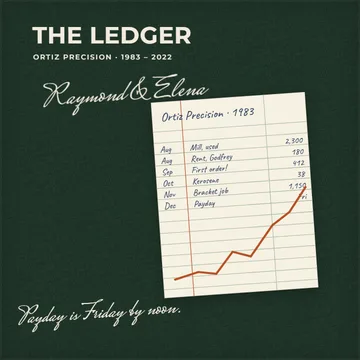
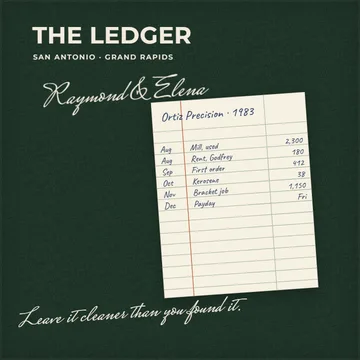
Raymond: a grandfather's book, with photographs
- Two new memories: learning to swim from his son at Grand Haven, and his
  father's one visit north and death. "Four-day weeks" is cut; 2009 stays
  as a one-line answer.
- Four photographs from the site's own synthetic library (03, 08, 30, 32),
  captioned in his voice. The engine now takes a /mission/ path and a ratio.
- Cover: no chart line, "SAN ANTONIO · GRAND RAPIDS", new motto; label
  "A machinist's life".
- Round-2 flags fixed: speech to strangers, repeated term sheet, dateline,
  ledger heading, "First order!", salesman/email/one-more-year answers,
  Maya's closing line. New letter, dedication, epigraph and back cover.

diff --git a/public/samples/books/raymond.js b/public/samples/books/raymond.js
@@ -2,11 +2,11 @@ DATA.raymond = {
   id: "raymond", name: "Raymond", full: "Raymond Ortiz", family: "the Ortiz family",
   pronoun: "he", poss: "his",
   born: "March 9, 1951", place: "San Antonio, Texas",
-  cover: { title: "THE LEDGER", date: "ORTIZ PRECISION · 1983 – 2022", names: "Raymond & Elena", motto: "Payday is Friday by noon." },
+  cover: { title: "THE LEDGER", date: "SAN ANTONIO · GRAND RAPIDS", names: "Raymond & Elena", motto: "Leave it cleaner than you found it." },
   title: "The Ledger",
   subtitle: "The life of Raymond Ortiz",
-  dedication: { text: "For Elena, who kept the books and kept me. And for the hundred and forty.", sig: "Ray" },
-  epigraph: { text: "I didn’t leave it on the table. I left it in a hundred and forty houses.", from: "m11" },
+  dedication: { text: "For Elena, who kept the books and kept me. For Marisol and Tomás, who got less of me than the shop did. And for Maya, who asked.", sig: "Ray" },
+  epigraph: { text: "A tool that’s a little wrong and the knowledge of which way.", from: "m1" },
 
   chapters: [
     { era: "Where we come from", memories: [
@@ -24,7 +24,7 @@ DATA.raymond = {
             "The caliper is on my desk. It reads a thousandth heavy. I’ve known that since 1962 and I’ve never had it fixed, because then I’d have to learn it over again. When I measure something that matters, I use it anyway, and I take the thousandth off in my head. That’s what he left me. A tool that’s a little wrong and the knowledge of which way."
           ]
         ],
-        kept: "A tool that’s a little wrong and the knowledge of which way."
+        kept: "this one measures. The rest of the tools in here guess."
       }
     ]},
 
@@ -56,11 +56,12 @@ DATA.raymond = {
             "I went back every Friday for eleven weeks. I never needed to. You could mail a deposit. She knew that and I knew that and neither of us brought it up."
           ],
           [
-            "The twelfth Friday she handed my receipt back with something written on it. Her mother’s phone number, and the words Sunday, two o’clock, bring nothing. Her mother was from Saltillo and did not trust a man who showed up with flowers. I showed up with nothing and ate three plates.",
-            "We were married in August 1975 at her mother’s parish on the west side. Forty-one people. Her father walked her down the aisle and told me at the reception, in Spanish, that she had never once been wrong about money, and I’d do well to remember it. I thought it was a toast. It was instructions.",
-            "Marisol came in 1977 and Tomás in 1980. Elena kept working the window until Marisol was born, and then she kept the books for a dry cleaner and a plumber from the kitchen table, for cash, so she could stay home. I didn’t think anything of it. A plumber’s books. I didn’t know I was watching the best bookkeeper in Kent County learn her trade on somebody else’s dime."
+            "The twelfth Friday she handed my receipt back with something written on it. Her mother’s phone number, and the words Sunday, two o’clock, bring nothing. Her mother did not trust a man who showed up with flowers. I showed up with nothing and ate three plates.",
+            "We were married in August 1975 at her mother’s parish. Her father told me at the reception, in Spanish, that she had never once been wrong about money, and I’d do well to remember it. I thought it was a toast. It was instructions.",
+            "Marisol came in 1977 and Tomás in 1980. Elena kept the books for a dry cleaner and a plumber from the kitchen table, for cash, so she could stay home. I didn’t know I was watching the best bookkeeper in Kent County learn her trade."
           ]
-        ]
+        ],
+        photos: [ { img: "/mission/03-1200.webp", ratio: 1.5, pos: "50% 55%", caption: "Burton Street, 1979. Marisol in the doorway, supervising. Everything we owned fit in that wagon.", face: 1 } ]
       },
       { id: "m4", title: "Elena’s ledger", dateline: "1983 – 2004 · aged 32 to 53", askedBy: "Maya",
         headnote: "At the kitchen table where the ledgers were kept, the first one open between them.",
@@ -82,9 +83,30 @@ DATA.raymond = {
             by: "Marisol Ortiz, his daughter" }
         ],
         voice: { rec: "Oct 2, 2025", len: "0:58", quote: "Your grandmother was the most important person in that company, and nobody knew it." },
-        plate: { kind: "ledger", title: "Ortiz Precision · 1983",
+        plate: { kind: "ledger", heading: "Ortiz Precision · 1983",
           rows: [["Aug","Mill, used","2,300"],["Aug","Rent, Godfrey","180"],["Sep","First order","412"],["Oct","Kerosene","38"],["Nov","Bracket job","1,150"],["Dec","Payday","Fri"]],
           caption: "The first page of Elena’s first ledger. She kept twenty-one of them." }
+      },
+      { id: "m13", title: "Grand Haven, the first week of August", dateline: "August 1987 · aged 36", askedBy: "Maya",
+        headnote: "On the porch on a hot evening, Elena in the next chair correcting the years.",
+        faces: [
+          [
+            "Elena made one rule when we started the shop. The first week of August, the doors close, everybody paid, nobody in the building. Especially me. So every August we rented the same cottage at Grand Haven."
+          ],
+          [
+            "I couldn’t swim. Where I grew up the pool on our side of town was closed more than it was open, and then I was working. I’d stand in the lake up to my knees and call it swimming.",
+            "Then Tomás learned at the Y. He was seven. He walked out to where I was standing and said, Dad, put your face in. It’s just water. I said I knew it was just water. He said, then put your face in.",
+            "It took three Augusts. He never laughed and he counted out loud. That’s how I taught him the lathe ten years later.",
+            "I can swim the length of a dock now. Elena says that’s plenty."
+          ]
+        ],
+        kept: "Dad, put your face in. It’s just water.",
+        photos: [ { img: "/mission/30-1200.webp", ratio: 1.5, pos: "50% 50%", caption: "Grand Haven, 1987. Tomás is teaching me. Elena is keeping score.", face: 0 } ],
+        sides: [
+          { heading: "Marisol remembers it differently",
+            body: "He says three Augusts. It was four. The last one he swam in front of Mom on purpose. She clapped from her chair like it was the Olympics. He walked very slowly to his towel.",
+            by: "Marisol Ortiz, his daughter" }
+        ]
       },
     ]},
 
@@ -98,8 +120,7 @@ DATA.raymond = {
           ],
           [
             "That first winter I worked in my coat. The only heat was a kerosene heater and the machine. The mill was the only thing in there making money, so it got the heat first. I’d stand close to it between cuts.",
-            "I was scared every Friday. But I was more scared of being sixty and still complaining about it.",
-            "I wasn’t sure. Nobody’s sure. I was angry, and angry lasts longer than sure. But I knew I could make the part right and make it on time, and in 1983 in this town that was enough to start on.",
+            "Elena came at noon with lunch in a coffee can and sat on an upturned bucket while I ate. She brought the ledger. She always brought the ledger. Marisol drew on the floor in chalk, and Tomás slept in a parts box lined with a moving blanket.",
             "The first order was $412. Twelve brackets for a chair company. I still have the first one, in a frame, and how it got there is a story for later."
           ]
         ],
@@ -116,7 +137,7 @@ DATA.raymond = {
           ]
         ]
       },
-      { id: "m8", title: "The customer who was sixty percent", dateline: "1986 – 1991 · aged 35 to 40", askedBy: "Maya",
+      { id: "m8", title: "The customer who was sixty percent", dateline: "1986 – 1991 · aged 35 to 39", askedBy: "Maya",
         headnote: "In the truck on the way back from Tomás’s shop, on a Thursday afternoon in November.",
         faces: [
           [
@@ -125,16 +146,36 @@ DATA.raymond = {
             "It felt like winning. It was a trap with a nice paint job."
           ],
           [
-            "In January 1991 their purchasing manager called to say volumes were being cut in half, effective immediately. No warning. No appeal. He was sorry, and he was reading it off a sheet. I put the phone down and went out on the floor and ran a part myself. I didn’t trust myself to talk to anybody. I had built a company and handed someone else the keys without noticing.",
-            "To anybody who just landed a customer that big: congratulations. Now go get three more. Every month one customer is more than a quarter of you, you’re working for them, not with them. After ’91 we turned down work to keep that rule. Good work, sometimes. Tomás runs his own shop by it now. He calls it Dad’s quarter. It’s the reason we were still standing in 2009."
+            "In January 1991 their purchasing manager called to say volumes were being cut in half, effective immediately. No warning. No appeal. He was sorry, and he was reading it off a sheet. I put the phone down and went out on the floor and ran a part myself. I didn’t trust myself to talk to anybody.",
+            "After that Elena drew a line in pencil across the front page of every ledger. One customer, no more than a quarter of us. We turned down work to stay under that line, good work, more than once. Tomás runs his own shop by it now. He calls it Dad’s quarter. It should be called Mom’s."
           ]
         ],
         kept: "It felt like winning. It was a trap with a nice paint job.",
+        photos: [ { img: "/mission/32-1200.webp", ratio: 1.5, pos: "50% 50%", caption: "Clay Avenue, 1988. Our first real building. Hector’s wagon, out front before anybody.", face: 0 } ],
         voice: { rec: "Oct 19, 2025", len: "0:36", quote: "The most expensive mistake I ever made came in on a Tuesday in 1986, and it looked like the best day of my life." }
       }
     ]},
 
     { era: "When everything changed", memories: [
+      { id: "m14", title: "My father comes north", dateline: "June 1985 – March 1987 · aged 34 to 36", askedBy: "Maya",
+        headnote: "At the kitchen table late in the afternoon, the caliper case open; he closes it before the last part.",
+        faces: [
+          [
+            "My father came north once. June 1985, on the Greyhound, because he didn’t trust airplanes or my driving.",
+            "I wanted him to see the garage on Godfrey Avenue, the mill, the work on the board, the sign. He walked around it a long time and didn’t say anything."
+          ],
+          [
+            "Then he found Elena’s mother’s fan, broken on my bench since Easter, and fixed it. He couldn’t be in a room with tools and not work. When he was done he wiped the bench where his arm had been.",
+            "Outside he looked at the sign. Ortiz Precision. He said, no first name. Good. That was the whole review.",
+            "He died in March 1987. Elena took the call on the hall phone. I drove to San Antonio in twenty-two hours.",
+            "I didn’t cry at the funeral. I cried on the way home, at a gas station in Texarkana, wiping down a pump handle somebody had left greasy.",
+            "He only came north once. I spent it showing him the mill. I should have shown him the kids."
+          ]
+        ],
+        kept: "no first name. Good.",
+        photos: [ { img: "/mission/08-1200.webp", ratio: 1.5, pos: "40% 50%", caption: "My father at my bench, Godfrey Avenue, June 1985. Elena’s mother’s fan. He wouldn’t sit down.", face: 0 } ],
+        voice: { rec: "Dec 4, 2025", len: "1:19", quote: "My father came north once." }
+      },
       { id: "m9", title: "The Friday I couldn’t make payroll", dateline: "February 8, 1991 · aged 39",
         headnote: "Alone in the shop after second shift; he stops for a long while before the part about the pallet.",
         faces: [
@@ -152,22 +193,6 @@ DATA.raymond = {
         ],
         kept: "So we didn’t pay us. Four months.",
         voice: { rec: "Oct 9, 2025", len: "1:12", quote: "It was February 8, 1991, a Friday, two weeks after the call from the lakeshore." }
-      },
-      { id: "m10", title: "Four-day weeks", dateline: "Spring 2009 · aged 58", askedBy: "Maya",
-        headnote: "In the shop’s break room on a Friday, which used to be the training day; the coffee is bad.",
-        faces: [
-          [
-            "The decision I’m proudest of is 2009, and it wasn’t a hard one. People think it was.",
-            "By March orders had fallen off a cliff. Forty-one percent down from the year before, and we had sixty-two people. The banker came out to the shop, which he’d never done, and said what every banker said that year. Lay off a third of the floor and wait it out. He had a number. Twenty-one.",
-            "I went home and asked Elena to run the numbers the other way. Not who do we cut. What does it cost to keep everybody. She had it by Sunday night."
-          ],
-          [
-            "Everybody went to four days a week. Me included, and my salary went to zero for twelve months. The fifth day became training. We put the whole floor through the new controls on Fridays, on the clock, because the machines were sitting idle anyway and so were the people. Nobody lost a job. Not one.",
-            "Everyone else laid people off. The people you lay off in a bad year are the people you need to rebuild in the good one. And I’d stood on that pallet in ’91. You can’t ask people to trust you and then let them find out on a Friday. The cuts start in my office. It’s on the wall in the shop now.",
-            "When the orders came back in 2010, we had the only full, trained crew in our corner of Kent County. The banker called to say congratulations. I let it ring."
-          ]
-        ],
-        voice: { rec: "Nov 6, 2025", len: "0:47", quote: "The decision I’m proudest of is 2009, and it wasn’t a hard one." }
       }
     ]},
 
@@ -199,7 +224,7 @@ DATA.raymond = {
         headnote: "In the front office, the framed bracket on the wall behind him; the second shift is clocking in.",
         faces: [
           [
-            "The private equity offer was the better deal on paper. I’m not going to pretend otherwise. I kept the term sheet in my desk drawer for three months and took it out most nights.",
+            "The private equity offer was the better deal on paper. I’m not going to pretend otherwise.",
             "In the end I took about a fifth less and sold the company to the people who worked there. An employee stock ownership plan. A piece of it for every one of them. The better part of three years and four lawyers to build, and I understood maybe half of what the lawyers said, and Marisol understood the other half and translated. A hundred and forty people. Every one of them in Grand Rapids. Every one of them still here.",
             "People ask if I left money on the table. I didn’t leave it on the table. I left it in a hundred and forty houses."
           ],
@@ -241,24 +266,21 @@ DATA.raymond = {
 
   learned: [
     { theme: "Work", quotes: [ { text: "Somebody shows you where your hand is wrong and you don’t make them show you twice.", from: "m2" } ] },
-    { theme: "Money", quotes: [ { text: "Every month one customer is more than a quarter of you, you’re working for them, not with them.", from: "m8" } ] },
-    { theme: "Hard choices", quotes: [
-      { text: "People can take bad news. What they can’t take is finding out last.", from: "m9" },
-      { text: "The people you lay off in a bad year are the people you need to rebuild in the good one.", from: "m10" }
-    ] },
+    { theme: "Loss", quotes: [ { text: "I spent it showing him the mill. I should have shown him the kids.", from: "m14" } ] },
+    { theme: "Hard choices", quotes: [ { text: "People can take bad news. What they can’t take is finding out last.", from: "m9" } ] },
     { theme: "What matters", quotes: [ { text: "If someone does the work of a partner, put their name on it the first day.", from: "m4" } ] }
   ],
 
   little: [
     { q: "Best money you ever spent?", a: "$2,300 on a used Bridgeport mill. It still runs." },
-    { q: "Worst hire you ever made?", a: "Me, as a salesman. I lasted four months." },
+    { q: "First thing you do every morning?", a: "Coffee for Elena, then mine. Fifty years." },
+    { q: "What do you and Elena argue about?", a: "The thermostat. Fifty years. She’s winning." },
+    { q: "What were you like as a father?", a: "Gone too much and home for dinner. Both are true. Ask Marisol." },
     { q: "What do you look for in a person?", a: "Whether they clean their station without being told." },
-    { q: "First thing you do every morning?", a: "Walk the floor before I open my email. Forty years." },
     { q: "Favorite tool?", a: "My father’s six-inch dial caliper. It’s off by a thousandth. I know which way." },
-    { q: "What did your father teach you?", a: "Leave the engine cleaner than you found it." },
-    { q: "One more year at thirty-two. What would you do?", a: "Pay Elena." },
-    { q: "Something you changed your mind about?", a: "Debt. I hated it. Good debt bought our second building." },
-    { q: "Hardest thing about being the boss?", a: "Eating lunch alone." },
+    { q: "What do you miss about San Antonio?", a: "My mother asking if I was cold. Breakfast. In that order." },
+    { q: "Something you never learned?", a: "Dancing. Elena stopped asking in 1979." },
+    { q: "Proudest decision?", a: "2009. Orders fell forty percent and nobody lost a job. Not one." },
     { q: "Advice for your 1983 self?", a: "Get a second customer before you need one." },
     { q: "What does retirement feel like?", a: "Saturday, every day. I miss Mondays." },
     { q: "What are you still learning?", a: "How to let Maya explain her circuit boards without interrupting." }
@@ -266,13 +288,12 @@ DATA.raymond = {
 
   people: [
     { name: "Elena Ortiz", relation: "his wife", line: "Kept the books and kept me. Never wrong about money. Never once." },
-    { name: "Tomás Ortiz", relation: "his son", line: "Ready in three years. I took five to see it. Runs his own shop by Dad’s quarter." },
+    { name: "Tomás Ortiz", relation: "his son", line: "Taught me to swim at seven. Ready for the keys long before I saw it." },
     { name: "Marisol Ortiz", relation: "his daughter", line: "Found an error in her mother’s ledger at eight. Keeps an empty green one on her desk now." },
     { name: "Maya Ortiz", relation: "his granddaughter", line: "Asked most of the questions in this book. Took my caliper without asking. Good." },
     { name: "Hector Ruiz", relation: "his first employee", line: "Wiped the mill table before I’d said the pay. Thirty-eight years. Kept the first bracket." },
-    { name: "Ramón Ortiz", relation: "his father", line: "Fixed cars on South Flores Street. Six kids, one bay. This one measures, he said." },
-    { name: "Consuelo Ortiz", relation: "his mother", line: "Asked if Michigan was cold. I said no. She knew." },
-    { name: "The banker", relation: "his banker, 2009", line: "Came out to the shop once, with a number. Twenty-one. He was wrong." }
+    { name: "Ramón Ortiz", relation: "his father", line: "Fixed cars on South Flores Street. Came north once, and fixed a fan." },
+    { name: "Consuelo Ortiz", relation: "his mother", line: "Asked if Michigan was cold. I said no. She knew." }
   ],
 
   family_chapter: [
@@ -291,7 +312,7 @@ DATA.raymond = {
       faces: [[
         "He says he watched. He did not watch. He stood behind me with his hands in his pockets and every time I reached for the handwheel he made a small noise, like hm. Forty minutes of hm.",
         "I’d run a CNC in a makerspace. I had never touched a manual mill, and this one is older than my dad. The dial doesn’t care that you went to engineering school. You turn the handle and you feel it, or you don’t. I scrapped the first one. I felt the second one.",
-        "When it came out he picked it up, turned it over twice, and said, well. That’s all. Well. I’ve put it on my desk, next to the drawing, and I know what it means. It means the same thing as the bracket on his wall. It means somebody kept it."
+        "When it came out he picked it up, turned it over twice, and said, well. That’s all. Well. I’ve put it on my desk, next to the drawing. When a day goes badly I pick it up and turn it over twice."
       ]] }
   ],
 
@@ -299,13 +320,14 @@ DATA.raymond = {
     faces: [[
       "You asked most of the questions in this book, so you get the letter.",
       "I don’t have advice. You’ve heard all of it, and you took the caliper anyway, which tells me you’ll be fine.",
-      "I want to tell you what I didn’t say on the phone. I started that company angry. I stayed in it for the people. Hector, and the twelve, and the sixty-two, and the hundred and forty. Your grandmother knew that in 1983 and I learned it on a pallet in 1991, and I’d rather you learned it from her.",
-      "You put in writing that everyone at your company gets a share of it. Keep that paper where you can see it. Then go get three more customers.",
-      "Tell your father I said he was ready in three. Tell your aunt the green book is hers to fill whenever she wants. And when you’re seventy-five and somebody asks you what you built, I hope you have trouble answering, because it’s too many people to name.",
+      "Here is what I didn’t say on the phone. I missed things. Marisol’s first science fair, because a fixture was wrong. Most of your father’s games in 1991. Your grandmother went to all of them and told me the scores at dinner, and I nodded like I’d been there. The shop would have run fine those nights without me. I know that now.",
+      "So come to dinner. Whatever you’re building will still be there at eight o’clock.",
+      "Tell your father he was ready in three. Tell your aunt the green book is hers to fill. Look after your grandmother, which she won’t let you do, so do it anyway.",
+      "When you’re seventy-five and somebody asks what you built, I hope you have trouble answering, because it’s too many people to name.",
       "Payday is Friday by noon."
     ]],
     sig: "Grandpa" },
 
-  colophon: { conversations: 14, gathered: "between September 2025 and January 2026", keepers: ["Maya Ortiz", "Marisol Ortiz"], archiveId: "AS-ORTIZ-2026", edition: "First edition, March 9, 2026" },
-  back: { dedicatedTo: "The Ortiz family", quote: "“Leave the engine cleaner than you found it.”" }
+  colophon: { conversations: 16, gathered: "between September 2025 and January 2026", keepers: ["Maya Ortiz", "Marisol Ortiz"], archiveId: "AS-ORTIZ-2026", edition: "First edition, March 9, 2026" },
+  back: { dedicatedTo: "The Ortiz family", quote: "“You’re not finishing a job. You’re handing it to someone.”" }
 };

diff --git a/public/samples/index.html b/public/samples/index.html
@@ -4,7 +4,7 @@
 <meta charset="utf-8">
 <meta name="viewport" content="width=device-width,initial-scale=1,viewport-fit=cover">
 <title>Sample books - A Story</title>
-<meta name="description" content="Flip through three sample A Story books: a baker’s life, a founder’s ledger and a veteran’s homecoming, each in their own words.">
+<meta name="description" content="Flip through three sample A Story books: a baker’s life, a machinist’s life and a veteran’s homecoming, each in their own words.">
 <link rel="canonical" href="https://astoryapp.com/samples/">
 <meta name="robots" content="index, follow, max-image-preview:large">
 <meta name="theme-color" content="#4A3327">
@@ -13,7 +13,7 @@
 <meta property="og:type" content="website">
 <meta property="og:site_name" content="A Story">
 <meta property="og:title" content="Sample books - A Story">
-<meta property="og:description" content="Flip through three sample A Story books: a baker’s life, a founder’s ledger and a veteran’s homecoming, each in their own words.">
+<meta property="og:description" content="Flip through three sample A Story books: a baker’s life, a machinist’s life and a veteran’s homecoming, each in their own words.">
 <meta property="og:url" content="https://astoryapp.com/samples/">
 <meta property="og:image" content="https://astoryapp.com/og/samples.jpg">
 <meta property="og:image:width" content="1200">
@@ -21,10 +21,10 @@
 <meta property="og:image:alt" content="Three sample A Story books, open to a page">
 <meta name="twitter:card" content="summary_large_image">
 <meta name="twitter:title" content="Sample books - A Story">
-<meta name="twitter:description" content="Flip through three sample A Story books: a baker’s life, a founder’s ledger and a veteran’s homecoming, each in their own words.">
+<meta name="twitter:description" content="Flip through three sample A Story books: a baker’s life, a machinist’s life and a veteran’s homecoming, each in their own words.">
 <meta name="twitter:image" content="https://astoryapp.com/og/samples.jpg">
 <style>.eyebrow a,.hint a.back{color:inherit;text-decoration:none;border-bottom:1px solid currentColor}.eyebrow a:hover,.hint a.back:hover{color:var(--accent)}</style>
-<script type="application/ld+json">{"@context":"https://schema.org","@graph":[{"@type":"WebPage","@id":"https://astoryapp.com/samples/","url":"https://astoryapp.com/samples/","name":"Sample books - A Story","description":"Flip through three sample A Story books: a baker’s life, a founder’s ledger and a veteran’s homecoming, each in their own words.","isPartOf":{"@type":"WebSite","name":"A Story","url":"https://astoryapp.com/"},"primaryImageOfPage":"https://astoryapp.com/og/samples.jpg"},{"@type":"BreadcrumbList","itemListElement":[{"@type":"ListItem","position":1,"name":"Home","item":"https://astoryapp.com/"},{"@type":"ListItem","position":2,"name":"Sample books","item":"https://astoryapp.com/samples/"}]}]}</script>
+<script type="application/ld+json">{"@context":"https://schema.org","@graph":[{"@type":"WebPage","@id":"https://astoryapp.com/samples/","url":"https://astoryapp.com/samples/","name":"Sample books - A Story","description":"Flip through three sample A Story books: a baker’s life, a machinist’s life and a veteran’s homecoming, each in their own words.","isPartOf":{"@type":"WebSite","name":"A Story","url":"https://astoryapp.com/"},"primaryImageOfPage":"https://astoryapp.com/og/samples.jpg"},{"@type":"BreadcrumbList","itemListElement":[{"@type":"ListItem","position":1,"name":"Home","item":"https://astoryapp.com/"},{"@type":"ListItem","position":2,"name":"Sample books","item":"https://astoryapp.com/samples/"}]}]}</script>
 <style>:root{color-scheme:light;box-sizing:border-box;padding-top:env(safe-area-inset-top,0px);padding-bottom:env(safe-area-inset-bottom,0px)}html{scroll-padding-top:env(safe-area-inset-top,0px)}body{margin:0;padding:0;font:14px -apple-system,BlinkMacSystemFont,sans-serif;background:#fff;color:#000}img{max-width:100%}[hidden]:not([hidden=until-found i]){display:none!important}</style></head><body>
 <link rel="preconnect" href="https://fonts.googleapis.com">
 <link rel="preconnect" href="https://fonts.gstatic.com" crossorigin>
@@ -997,7 +997,7 @@ html.fonts-wait #stageHost,html.fonts-wait .notes,html.fonts-wait .buy{opacity:0
     <header class="top">
     <nav class="books" id="books" aria-label="Choose a sample book">
       <button data-book="carolyn" aria-pressed="true"><i style="background:#1e3962"></i><span><b>Carolyn Bennett</b><small>A baker’s life</small></span></button>
-      <button data-book="raymond" aria-pressed="false"><i style="background:#1f3328"></i><span><b>Raymond Ortiz</b><small>A founder’s ledger</small></span></button>
+      <button data-book="raymond" aria-pressed="false"><i style="background:#1f3328"></i><span><b>Raymond Ortiz</b><small>A machinist’s life</small></span></button>
       <button data-book="tom" aria-pressed="false"><i style="background:#283f51"></i><span><b>Thomas Kessler</b><small>A veteran’s homecoming</small></span></button>
     </nav>
     </header>
@@ -1213,8 +1213,7 @@ const raymondArt = `<svg class="cv-art" viewBox="0 0 66 80" aria-hidden="true">
     ${Array.from({length:15},(_,i)=>`<line x1="6" x2="58" y1="${16+i*3.8}" y2="${16+i*3.8}" stroke="#9fb6a5" stroke-width=".18"/>`).join('')}
     <line x1="16" x2="16" y1="6" y2="72" stroke="#c46b4b" stroke-width=".25"/><line x1="44" x2="44" y1="6" y2="72" stroke="#9fb6a5" stroke-width=".18"/>
     <text x="9" y="12.5" font-family="Caveat, cursive" font-size="4.2" fill="#2f3f63">Ortiz Precision · 1983</text>
-    ${[["Aug","Mill, used","2,300"],["Aug","Rent, Godfrey","180"],["Sep","First order!","412"],["Oct","Kerosene","38"],["Nov","Bracket job","1,150"],["Dec","Payday","Fri"]].map((r,i)=>`<text x="8" y="${23+i*3.8}" font-family="Caveat, cursive" font-size="3" fill="#2f3f63">${r[0]}</text><text x="18" y="${23+i*3.8}" font-family="Caveat, cursive" font-size="3" fill="#2f3f63">${r[1]}</text><text x="56" y="${23+i*3.8}" text-anchor="end" font-family="Caveat, cursive" font-size="3" fill="#2f3f63">${r[2]}</text>`).join('')}
-    <path d="M10 66 L18 64 L24 65 L30 58 L36 60 L44 50 L50 46 L56 38" fill="none" stroke="#b85126" stroke-width=".7" stroke-linecap="round"/>
+    ${[["Aug","Mill, used","2,300"],["Aug","Rent, Godfrey","180"],["Sep","First order","412"],["Oct","Kerosene","38"],["Nov","Bracket job","1,150"],["Dec","Payday","Fri"]].map((r,i)=>`<text x="8" y="${23+i*3.8}" font-family="Caveat, cursive" font-size="3" fill="#2f3f63">${r[0]}</text><text x="18" y="${23+i*3.8}" font-family="Caveat, cursive" font-size="3" fill="#2f3f63">${r[1]}</text><text x="56" y="${23+i*3.8}" text-anchor="end" font-family="Caveat, cursive" font-size="3" fill="#2f3f63">${r[2]}</text>`).join('')}
   </g></svg>`;
 const tomArt = `<svg class="cv-art" viewBox="0 0 66 80" aria-hidden="true">
   <path d="M30 2 C 18 10, 14 20, 22 30" fill="none" stroke="currentColor" stroke-width=".6" stroke-dasharray=".6 .9" opacity=".8"/>
@@ -1392,11 +1391,13 @@ function compileBook(D, forceToc){
   const paraBlocks = (list, kept) => list.map((p,i) => { const [h, hit] = keptMark(tw(p), kept); const drop = i===0 && String(p).replace(/<[^>]+>/g,'').length >= 90; return `<p class="${drop?'drop ':''}${hit?'has-kept':''}">${h}</p>`; });
   /* one photograph shows whole: 40cqw tall, its own width (the sample's five prints are portraits; the tallest is floored at 0.62 and cropped a little by its object-position), centred on the measure */
   const RATIO = {beach:371/1000, beachd:440/700, kiss:708/770, paint:735/1000, paintd:473/700};
-  const plateW = p => (40 * Math.min(1.9, Math.max(0.62, RATIO[p.img] || 0.75))).toFixed(1);
-  const plate = ps => { if(!ps.length) return ''; if(ps.length > 1) return `<div class="plate plate-many">${ps.map(p=>`<figure>${ph(IMG[p.img]||IMG.paint, p.pos||'center', p.caption)}<figcaption>${tw(p.caption)}</figcaption></figure>`).join('')}</div>`;
+  const plateW = p => (40 * Math.min(1.9, Math.max(0.62, RATIO[p.img] || p.ratio || 0.75))).toFixed(1);
+  /* a print is one of the five embedded keys, or a photograph from the site's own library (/mission/…) */
+  const srcOf = p => IMG[p.img] || (String(p.img||"").startsWith("/mission/") ? p.img : IMG.paint);
+  const plate = ps => { if(!ps.length) return ''; if(ps.length > 1) return `<div class="plate plate-many">${ps.map(p=>`<figure>${ph(srcOf(p), p.pos||'center', p.caption)}<figcaption>${tw(p.caption)}</figcaption></figure>`).join('')}</div>`;
     /* one print: its own width; a caption under a print narrower than half the measure spans the measure instead */
     const p = ps[0], w = plateW(p), narrow = +w < 39;
-    return `<div class="plate plate-one"><figure style="width:${w}cqw">${ph(IMG[p.img]||IMG.paint, p.pos||'center', p.caption)}${narrow?'':`<figcaption>${tw(p.caption)}</figcaption>`}</figure>${narrow?`<p class="plate-note">${tw(p.caption)}</p>`:''}</div>`; };
+    return `<div class="plate plate-one"><figure style="width:${w}cqw">${ph(srcOf(p), p.pos||'center', p.caption)}${narrow?'':`<figcaption>${tw(p.caption)}</figcaption>`}</figure>${narrow?`<p class="plate-note">${tw(p.caption)}</p>`:''}</div>`; };
   const sides = m => (m.sides||[]).map(s => `<aside class="side"><p class="side-head">${tw(s.heading)}</p><p class="side-words">${tw(s.body)}</p><p class="side-by">${tw(s.by)}</p></aside>`);
   const listen = m => m.voice ? `<div class="listen">${qrBtn(m.id)}<p>Scan with a phone camera to hear ${tw(name)} tell this.<span class="rec-id">Recording ${tw(m.voice.rec)} · ${tw(m.voice.len)}</span></p></div>` : '';
 

diff --git a/docs/plans/SAMPLE-BOOKS-V2.md b/docs/plans/SAMPLE-BOOKS-V2.md
@@ -148,3 +148,22 @@ Banned on the page: summary boxes, source tags, layer bars, stats, lesson boxes,
 asked", "A Story asked for more", "nine minutes later", "still alive / for Ellie",
 "what she passes on", "to the reader", "five questions", revenue chart, import demos,
 and any sentence an editor wrote about her ("a testament to", "not just X but Y").
+
+## Raymond, round 3 (4 Nov, branch `raymond-v3`)
+
+Raymond scored 7.65 in round 2, below the bar of 8. The readers said it has no photographs, it reads like a founder's book rather than a grandfather's, and the cover has a rising red chart line.
+
+Pass / fail:
+- R1. At least half of his memories are about home, family or loss, not the company. Before the change it was 5 of 12.
+- R2. The book has three to five photographs from the site's own synthetic library (`public/mission/`), captioned in his voice, and none of them is used on a live page.
+- R3. The cover has no chart line, and nothing on the cover is about the company.
+- R4. Every round-2 flag on Raymond is fixed or kept on purpose with a reason: the salesman answer, the email answer, the "one more year" question, the "aged 35 to 40" dateline, the ledger plate without a heading, the speech to strangers in m8, the repeated term sheet in m11, Maya's closing line, "First order!", and "Four-day weeks" read as a case study.
+- R5. The data check, overflow check, lint and build pass, and the covers are re-captured.
+- R6. A cold-reader panel scores Raymond at least 8.0.
+
+| # | Task | Check | State |
+|---|------|-------|-------|
+| R-a | Engine: library photos with a ratio; cover chart line and "First order!" removed; label "A machinist's life" | page renders | done |
+| R-b | Rewrite: cut "Four-day weeks"; add "Grand Haven" (learning to swim, from his son) and "My father comes north" (his father's one visit and death); a new letter, little answers, people, dedication and cover line | `samples-check-data.mjs` OK | in progress |
+| R-c | Four photographs: 08 for his father at the bench, 30 for Grand Haven, 32 for the first building, 03 for the house | overflow OK | |
+| R-d | Checks, covers, panel round 3 | R5, R6 | |
